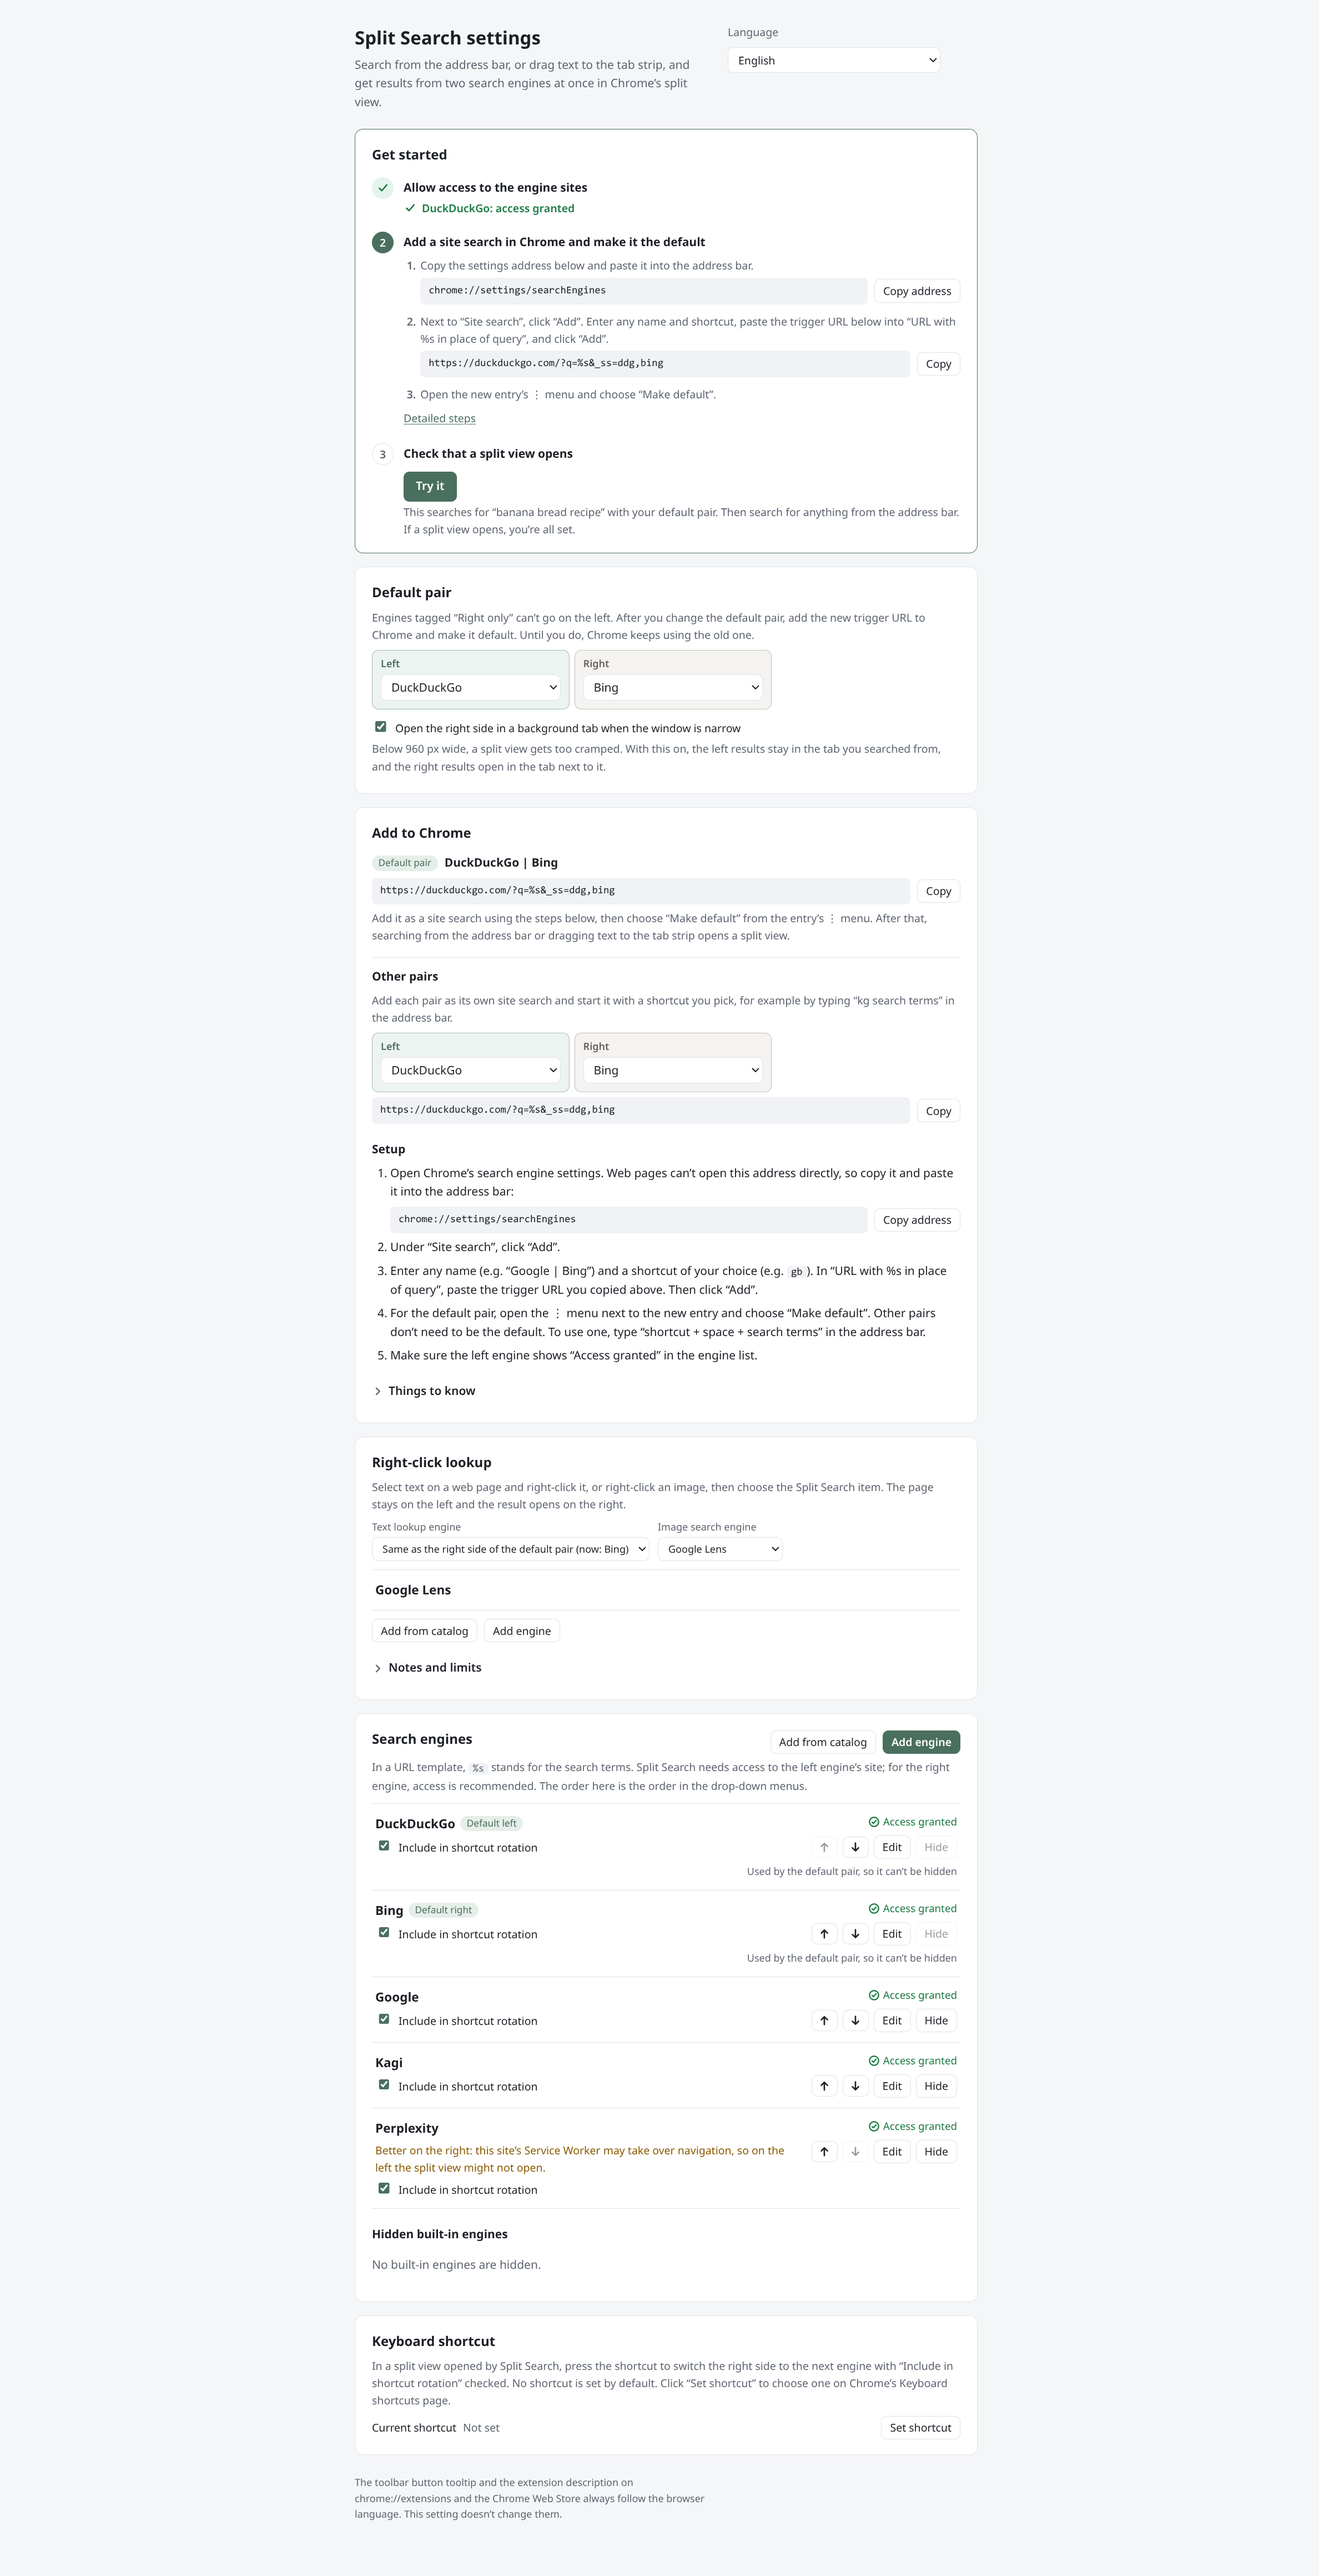
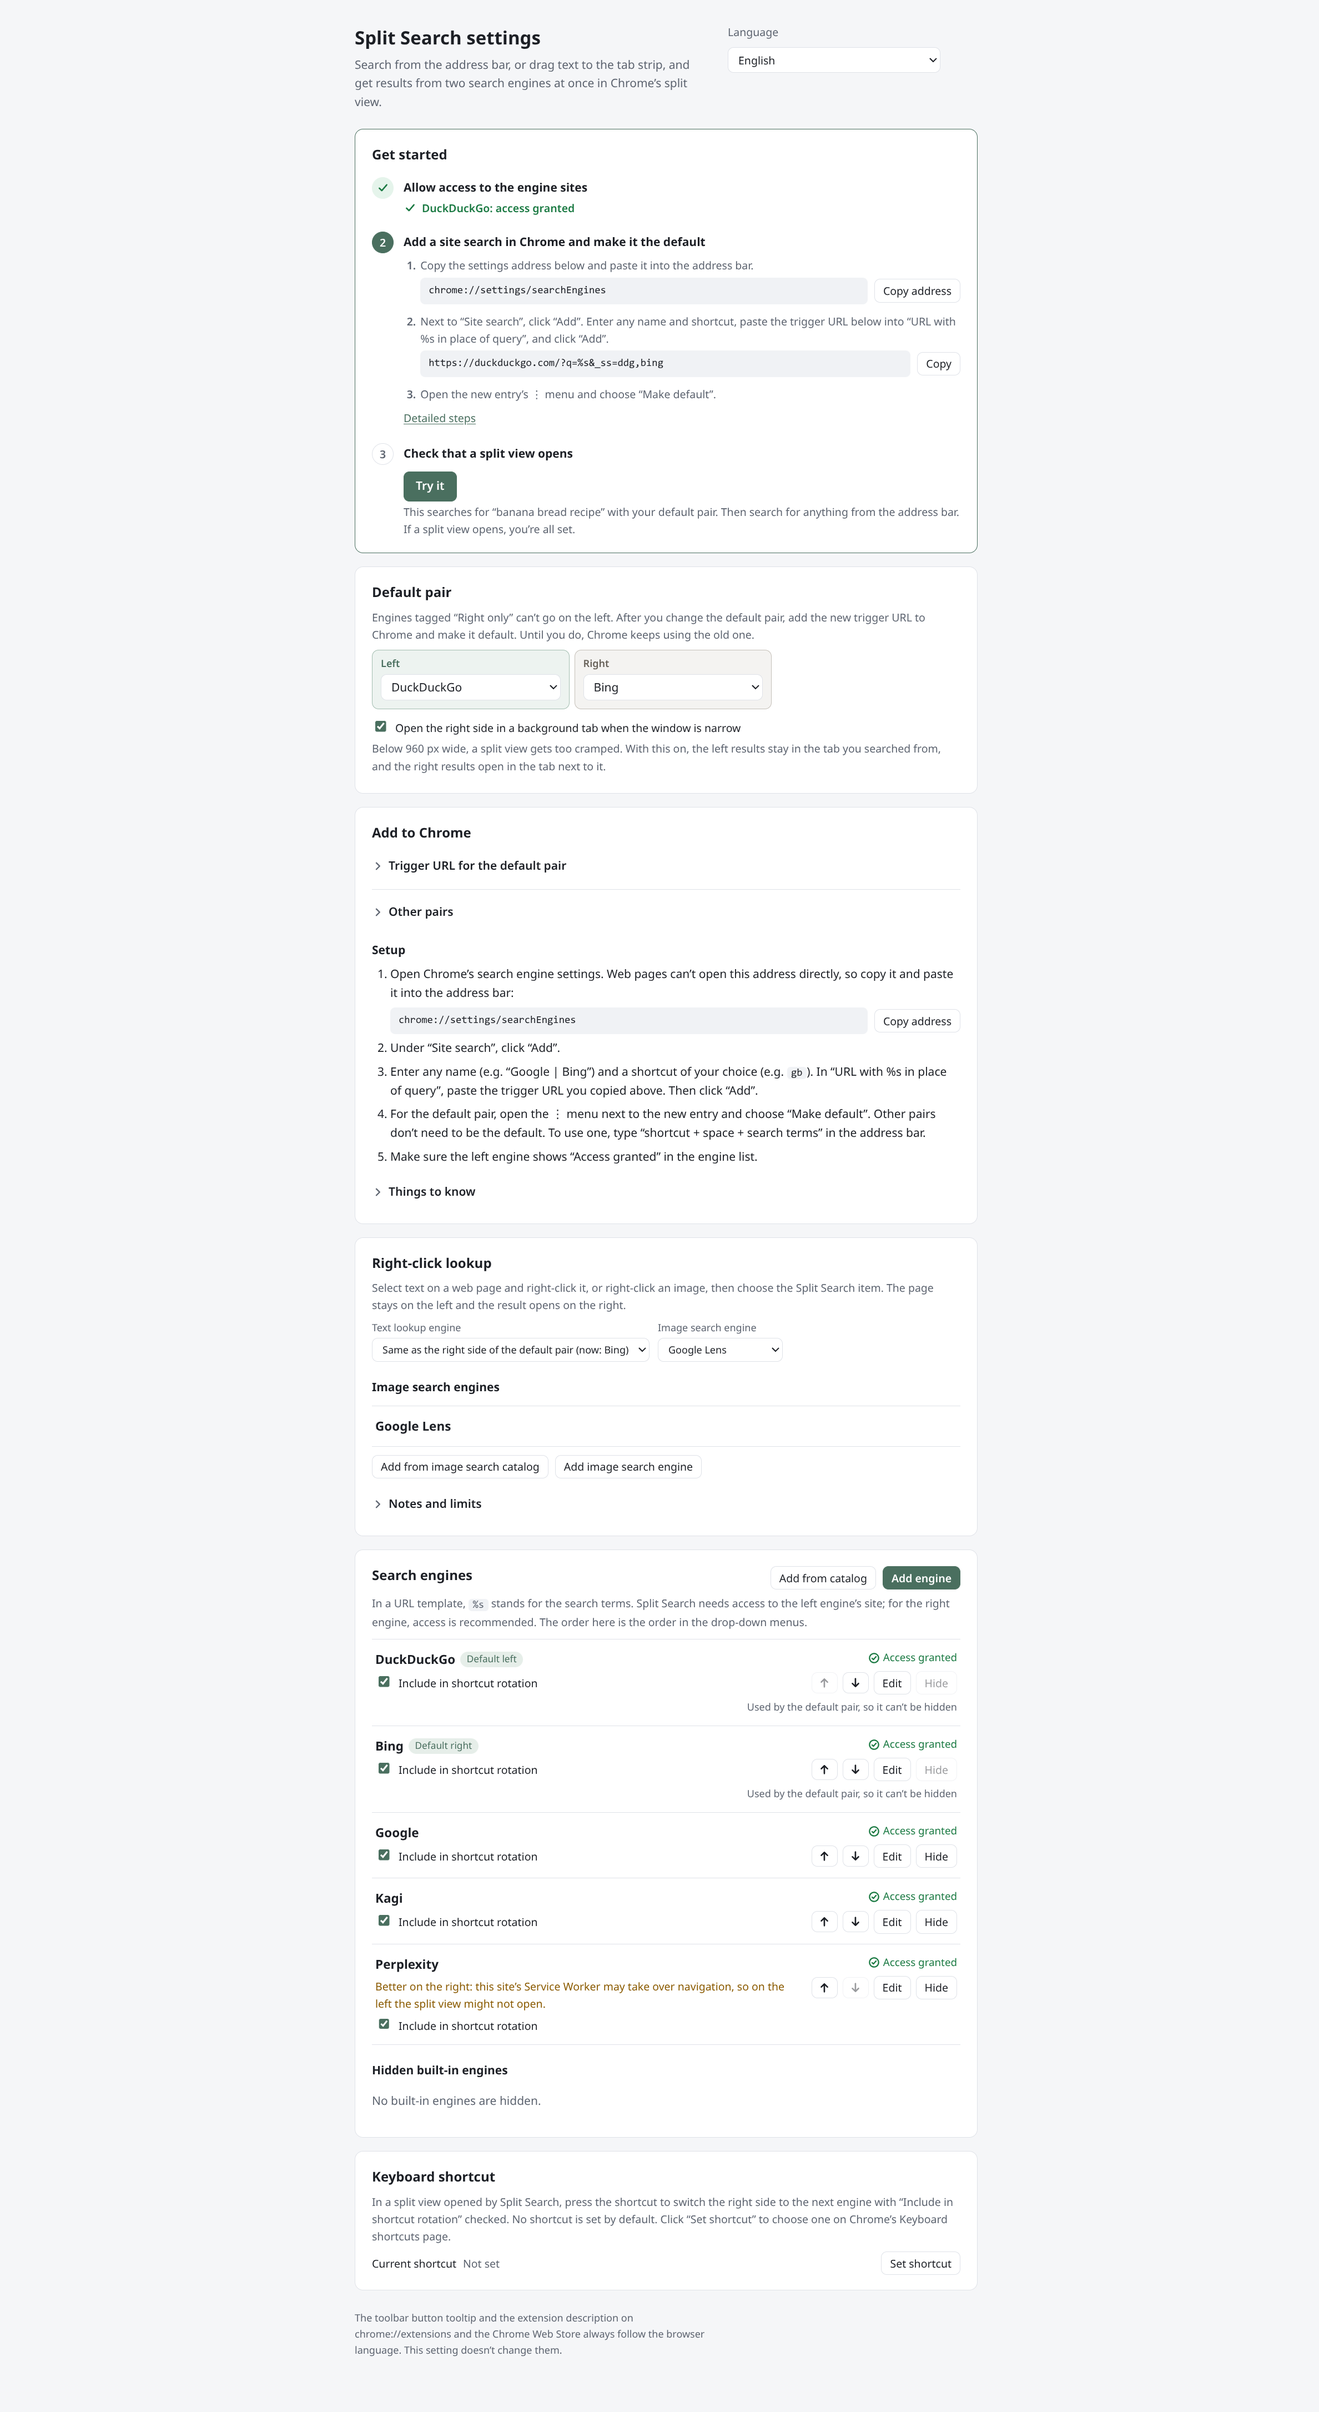
docs(assets): reshoot the English settings page screenshots
Retake options-top, options-engines and options-fullpage after the UI
polish (collapsed Add to Chrome sections, image search list title and
buttons) with the same private Xvfb, fresh profile and state as before.
captions.md records the fourth reshoot and the row separator positions.

Claude-Session: https://claude.ai/code/session_01QAFczmx2FRoPgu46A1z6D9

diff --git a/assets/raw/captions.md b/assets/raw/captions.md
@@ -72,9 +72,9 @@ convert drag-to-tabstrip.png \
 
 | 文件 | 内容 |
 |---|---|
-| `en/options-top.png` | 设置页首屏（英文界面，2026-10-26 重拍，见下文“设置页三张的重拍”）：标题、语言下拉框、“Get started”卡（第 1 步“DuckDuckGo: access granted”，第 2 步的三个编号小步：`chrome://settings/searchEngines` 带“Copy address”、触发网址 `https://duckduckgo.com/?q=%s&_ss=ddg,bing` 带“Copy”、在 ⋮ 菜单里选“Make default”，第 3 步“Try it”）、“Default pair”卡开头的左右两个窗格 |
-| `en/options-engines.png` | 设置页滚动到“Search engines”卡片，卡片上缘在视口顶下 8 CSS 像素（原图 y≈143）；五个引擎都是“Access granted”，DuckDuckGo、Bing 带“Default left/Default right”和“默认组合在用，不能隐藏”的说明，说明只占一行（2026-10-26 第二次重拍） |
-| `en/options-fullpage.png` | 设置页整页（CDP `Page.captureScreenshot`），2376×4637（2026-10-26 第三次重拍） |
+| `en/options-top.png` | 设置页首屏（英文界面，2026-10-27 第四次重拍，见下文“设置页三张的重拍”）：标题、语言下拉框、“Get started”卡（第 1 步“DuckDuckGo: access granted”，第 2 步的三个编号小步：`chrome://settings/searchEngines` 带“Copy address”、触发网址 `https://duckduckgo.com/?q=%s&_ss=ddg,bing` 带“Copy”、在 ⋮ 菜单里选“Make default”，第 3 步“Try it”）、“Default pair”卡开头的左右两个窗格 |
+| `en/options-engines.png` | 设置页滚动到“Search engines”卡片，卡片上缘在视口顶下约 8 CSS 像素（原图 y≈143）；五个引擎都是“Access granted”，DuckDuckGo、Bing 带“Default left/Default right”和“默认组合在用，不能隐藏”的说明，说明只占一行；在 x=700 处，行分隔线在原图 y 304、460、616、734、853（2026-10-27 第四次重拍） |
+| `en/options-fullpage.png` | 设置页整页（CDP `Page.captureScreenshot`），2376×4343（2026-10-27 第四次重拍） |
 | `en/split-ddg-bing-rust.png` | 新标签打开触发网址 `https://duckduckgo.com/?q=rust+programming&_ss=ddg,bing`，扩展建成 DuckDuckGo ｜ Bing 拆分视图；标签栏里是“Split Search settings”和两个分屏标签 |
 | `en/drag-to-tabstrip.png` | 英文维基百科“Rust (programming language)”，在正文“Software developer Graydon Hoare created Rust…”里选中“Graydon Hoare”（不是链接），用 xdotool 真实按下拖到标签栏空白处（落点 1460,30），没松手时截图。第一个标签旁同样有 Xvfb 下的黑底插入箭头（397,61），商店截图 3（v2）的裁切包含它，用 `en/patches/` 的修补图盖掉（见“修补”） |
 | `en/drag-result-split.png` | 松手后：默认搜索引擎（触发网址）打开新标签，扩展建成 DuckDuckGo ｜ Bing 拆分视图，查询词“Graydon Hoare” |
@@ -98,5 +98,7 @@ convert drag-to-tabstrip.png \
 第二次重拍（同一天，整体审查后的修正）：“不能隐藏”的说明放宽到一行（`options.css` 的 `.row-reason` 改为 `max-width: 56ch`），引擎卡片和整页随之变矮，所以重拍了这三张。用同一个脚本、同一套环境和状态（私有 Xvfb :131、全新临时配置、五个预置引擎在授权框里点“允许”、没有 `setupDone`），扩展是修正后的工作区。设置页的静态 HTML 这时已改成 `lang="en"`，不会再弹翻译气泡；关掉翻译的参数和 Preferences 仍然照旧加着。`options-top.png` 与上一版只差右边滚动条滑块（页面变矮了），画面内容相同；`options-engines.png` 里 DuckDuckGo、Bing 两行各矮了一行。重新渲染后只有商店截图 4 和顶部宣传图变了；商店截图 4 的裁切只到引擎行的左半边，说明文字在右半边、不在画面里，所以这两行的复选框下面仍有一行高的空白（比上一版少一行）。
 
 第三次重拍（2026-10-26，v0.4.0 打标签前的“开始使用”第 2 步改版）：第 2 步拆成三个编号小步（复制设置地址、粘贴触发网址、设为默认，每步只带自己的复制按钮），只有画面里有这张卡的 `options-top.png` 和 `options-fullpage.png` 换了。同一个脚本、同一套环境和状态（私有 Xvfb :131、全新临时配置、五个预置引擎在授权框里点“允许”、没有 `setupDone`）。`options-fullpage.png` 变成 2376×4637（第 2 步比原来的“说明 + 两个带标签的复制框”矮了一点）。`options-engines.png` 也重拍过对比：内容相同，只有文字抗锯齿的像素差（页面高度变了，滚动位置不同），所以保留上一版不换。商店图和宣传图只用 `options-engines.png`，重新渲染后没有变化。工具栏弹窗不在任何原始截图里，弹窗分屏外的三档不用补拍。
+
+第四次重拍（2026-10-27，v0.4 界面收尾）：没授权的非必需引擎改成中性样式、“开始使用”卡显示时“添加到 Chrome”卡里的默认组合一段和“其他组合”收进折叠区、以图搜图列表加了小标题和写明对象的按钮。三张 `en/options-*.png` 都用同一个脚本、同一套环境和状态重拍（私有 Xvfb :131、Chrome 156.0.8078.47、全新临时配置、五个预置引擎在授权框里点“允许”、没有 `setupDone`），扩展是当时 main 上的 `src/`。`options-top.png` 与上一版只差右边滚动条滑块（整页变矮了），画面内容相同；`options-engines.png` 内容相同，滚动位置差约 1 原图像素；`options-fullpage.png` 变成 2376×4343，“添加到 Chrome”卡里是收起的“Trigger URL for the default pair”和“Other pairs”，“右键查询”卡里有“Image search engines”小标题和“Add from image search catalog”“Add image search engine”两个按钮。界面里没授权的引擎都授权了，所以截图里看不到新的中性“未授权”样式。
 
 每张都逐一看过：没有中文、没有账号头像（右上角是未登录的默认图标）、没有 Kagi 或其他网站的令牌、IP 和浏览历史。网页内容是网站当时实际返回的结果，没有改过。
